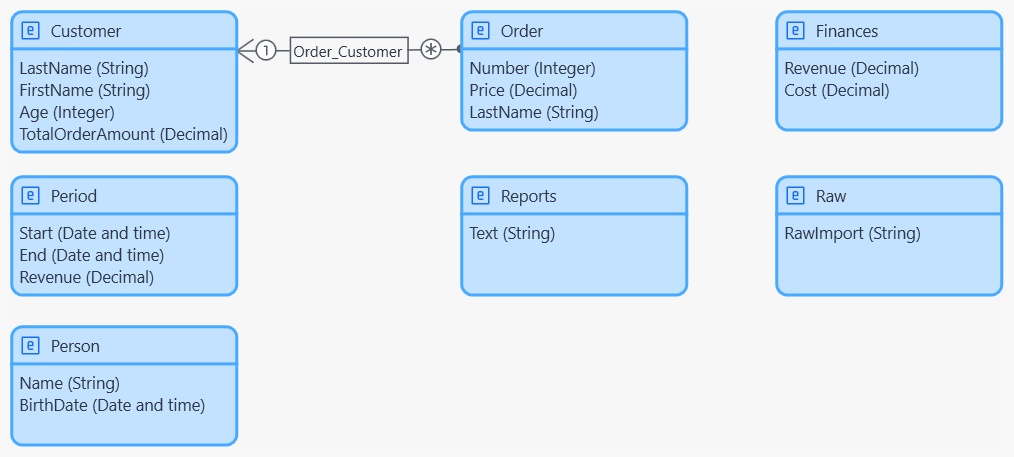
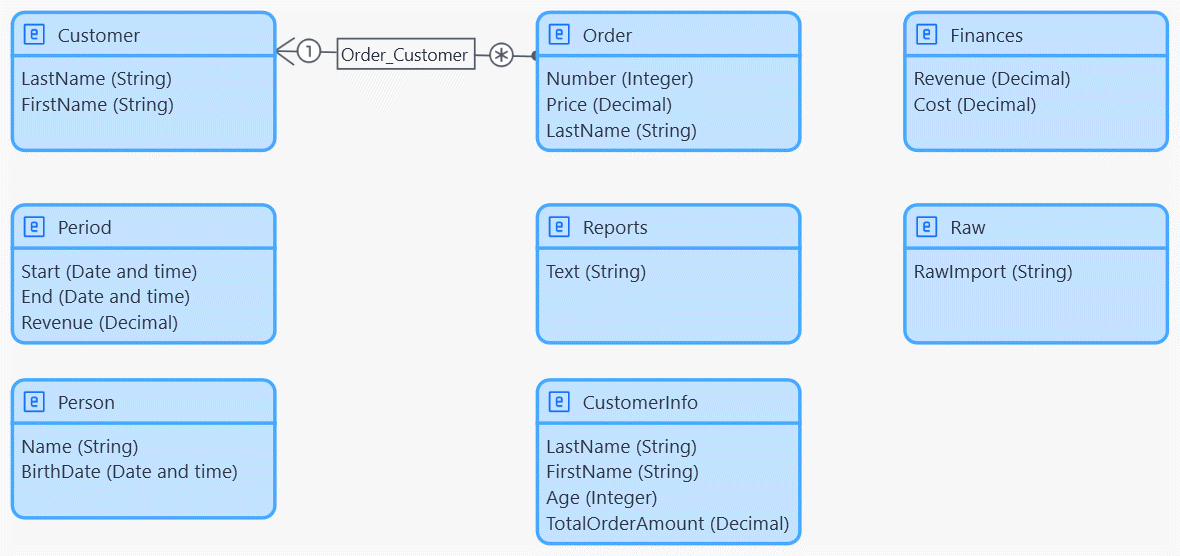
Add new entity for COALESCE example

diff --git a/content/en/docs/refguide/modeling/domain-model/oql/oql-expression-syntax.md b/content/en/docs/refguide/modeling/domain-model/oql/oql-expression-syntax.md
@@ -780,10 +780,10 @@ COALESCE ( expression [ ,...n ] )
 
 #### Examples {#coalesce-expression-examples}
 
-Assume entity `Sales.Customer` entity now has some `NULL` values:
+Assume entity `Sales.CustomerInfo` entity now has some `NULL` values:
 
 ```sql
-SELECT * FROM Sales.Customer
+SELECT * FROM Sales.CustomerInfo
 ```
 
 | ID | LastName | FirstName | Age  | TotalOrderAmount |
@@ -794,7 +794,7 @@ SELECT * FROM Sales.Customer
 Selecting a non-null name for a customer, ignoring if it is the first name or last name, can be done with `COALESCE`:
 
 ```sql
-SELECT COALESCE(LastName, FirstName) AS Name FROM Sales.Customer
+SELECT COALESCE(LastName, FirstName) AS Name FROM Sales.CustomerInfo
 ```
 
 | Name |                                                         
@@ -808,7 +808,7 @@ If all arguments have different numeric types, the data type of the expression r
 SELECT
 	COALESCE(Age, TotalOrderAmount) AS AgeOrAmount,
 	COALESCE(TotalOrderAmount, Age) AS AmountOrAge,
-FROM Sales.Customer
+FROM Sales.CustomerInfo
 ```
 
 | AgeOrAmount (type: Decimal) | AmountOrAge (type: Decimal²) |
